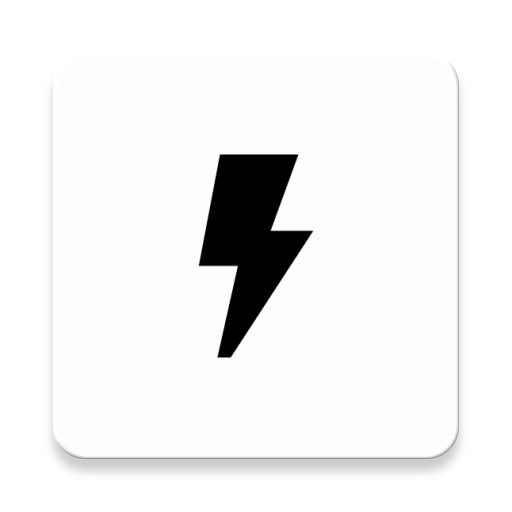
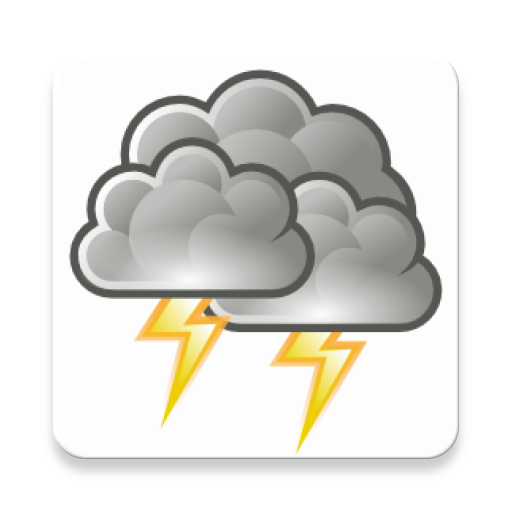
icone du temps

Changed region(s): [[0.125, 0.125, 0.875, 0.875]]

diff --git a/app/src/main/java/com/example/p1502985/myapplication/MeteoAdapter.java b/app/src/main/java/com/example/p1502985/myapplication/MeteoAdapter.java
@@ -5,6 +5,7 @@ import android.view.LayoutInflater;
 import android.view.View;
 import android.view.ViewGroup;
 import android.widget.ArrayAdapter;
+import android.widget.EditText;
 import android.widget.ImageView;
 import android.widget.TextView;
 
@@ -17,12 +18,17 @@ import java.util.ArrayList;
 
 public class MeteoAdapter extends ArrayAdapter<String> {
     private final Context context;
-    private final ArrayList<String> values;
+    private final ArrayList<String> meteo_description;
+    private final ArrayList<String> meteo_min;
+    private final ArrayList<String> meteo_max;
 
-    public MeteoAdapter(Context context, ArrayList<String> values) {
-        super(context, R.layout.list_meteo, values);
+
+    public MeteoAdapter(Context context, ArrayList<String> description, ArrayList<String> min, ArrayList<String> max) {
+        super(context, R.layout.list_meteo, description);
         this.context = context;
-        this.values = values;
+        this.meteo_description = description;
+        this.meteo_min = min;
+        this.meteo_max = max;
     }
 
     @Override
@@ -33,16 +39,30 @@ public class MeteoAdapter extends ArrayAdapter<String> {
         View rowView = inflater.inflate(R.layout.list_meteo, parent, false);
         TextView textView = (TextView) rowView.findViewById(R.id.label);
         ImageView imageView = (ImageView) rowView.findViewById(R.id.logo);
-        textView.setText(values.get(position));
+        textView.setText(meteo_description.get(position));
+
+        TextView text1 = (TextView) rowView.findViewById(R.id.textView2);
+        text1.setText("min : " + meteo_min.get(position));
+
+        TextView text2 = (TextView) rowView.findViewById(R.id.textView3);
+        text2.setText("max : " + meteo_max.get(position));
+
 
         // Change icon based on name
-        String s = values.get(position);
+        String s = meteo_description.get(position);
 
         System.out.println(s);
 
-        if (s.equals("light rain")) {
-            imageView.setImageResource(R.mipmap.eclair);
+        if (s.contains("rain")) {
+            imageView.setImageResource(R.mipmap.rain);
         }
+        else  if(s.contains("clouds")){
+            imageView.setImageResource(R.mipmap.cloud);
+        }
+        else  if(s.contains("clear")){
+            imageView.setImageResource(R.mipmap.sun);
+        }
+
 
         return rowView;
     }

diff --git a/app/src/main/java/com/example/p1502985/myapplication/JSONtask.java b/app/src/main/java/com/example/p1502985/myapplication/JSONtask.java
@@ -2,7 +2,6 @@ package com.example.p1502985.myapplication;
 
 import android.os.AsyncTask;
 import android.widget.ArrayAdapter;
-import android.widget.ListView;
 
 import org.json.JSONArray;
 import org.json.JSONObject;
@@ -18,14 +17,26 @@ import java.util.ArrayList;
 public class JSONtask extends AsyncTask<Object, Void, String> {
 
     ArrayAdapter<String> adapter;
-    ArrayList<String> maListe ;
+
+
+    ArrayList<String> meteo_description;
+    ArrayList<String> meteo_min;
+    ArrayList<String> meteo_max;
+
+
     @Override
     protected String doInBackground(Object... objects) {
 
 
         adapter = (ArrayAdapter) objects[0];
-        maListe = (ArrayList<String>)  objects[1];
-        maListe.clear();
+        meteo_description = (ArrayList<String>)  objects[1];
+        meteo_description.clear();
+
+        meteo_min = (ArrayList<String>)  objects[2];
+        meteo_min.clear();
+
+        meteo_max = (ArrayList<String>)  objects[3];
+        meteo_max.clear();
 
         System.out.println("meteo");
 
@@ -76,7 +87,10 @@ public class JSONtask extends AsyncTask<Object, Void, String> {
 
 
                 System.out.println("min : " + main.getString("temp_min"));
+                meteo_min.add(main.getString("temp_min"));
+
                 System.out.println("max : " + main.getString("temp_max"));
+                meteo_max.add(main.getString("temp_max"));
 
                 JSONArray weather = reader2.getJSONArray("weather");
                 System.out.println("weather : " + weather.toString());
@@ -90,7 +104,7 @@ public class JSONtask extends AsyncTask<Object, Void, String> {
                 System.out.println(" meteo : " + meteo.get("description"));
 
 
-                maListe.add(meteo.getString("description"));
+                meteo_description.add(meteo.getString("description"));
 
 
             }

diff --git a/app/src/main/java/com/example/p1502985/myapplication/MainActivity.java b/app/src/main/java/com/example/p1502985/myapplication/MainActivity.java
@@ -3,10 +3,8 @@ package com.example.p1502985.myapplication;
 import android.support.v7.app.AppCompatActivity;
 import android.os.Bundle;
 import android.view.View;
-import android.widget.ArrayAdapter;
 import android.widget.Button;
 import android.widget.ListView;
-import android.widget.TextView;
 
 import java.util.ArrayList;
 
@@ -17,7 +15,9 @@ public class MainActivity extends AppCompatActivity {
     private Button json_boutton;
     private ListView vueListe;
     MeteoAdapter adapter;
-    ArrayList<String> myStringArray;
+    ArrayList<String> description;
+    ArrayList<String> min;
+    ArrayList<String> max;
 
 
     @Override
@@ -31,11 +31,12 @@ public class MainActivity extends AppCompatActivity {
         vueListe = (ListView) findViewById(R.id.listView);
 
 
-        myStringArray = new ArrayList<>();
+        description = new ArrayList<>();
+        min =  new ArrayList<>();
+        max =  new ArrayList<>();
 
 
-
-        adapter = new MeteoAdapter(this,myStringArray);
+        adapter = new MeteoAdapter(this, description,min,max);
 
 
         vueListe.setAdapter(adapter);
@@ -50,7 +51,7 @@ public class MainActivity extends AppCompatActivity {
 //                System.out.print("aaaaaa " + adapter.getItem(0).toString() + "\n");
 
                 JSONtask tache = new JSONtask();
-                tache.execute(adapter,myStringArray);
+                tache.execute(adapter, description,min,max);
 
             }
         });
